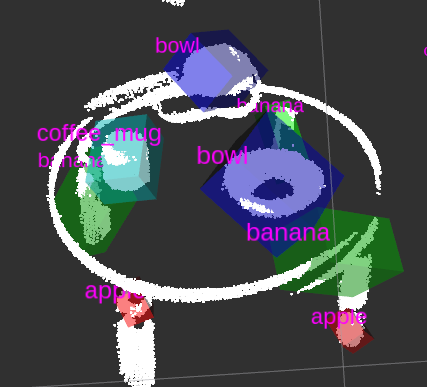
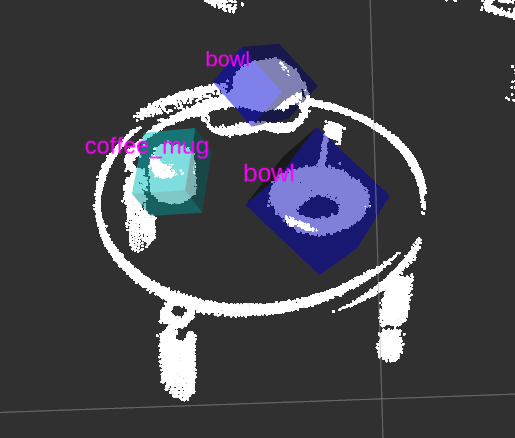
classification only for coffeemug and bowl done

diff --git a/scripts/classifierNode.py b/scripts/classifierNode.py
@@ -130,7 +130,7 @@ class NodeHandler:
                 if dim_check:
                     volume_data,quaternion = self.g.get_volumetric_data(cloud_array)
                     label,proba = cnn.predict(np.array([[volume_data]]),self.CLASS_PATH)
-                    if proba >= PRED_THRESHOLD:
+                    if (proba >= PRED_THRESHOLD) and (label in ["coffee_mug_1","bowl_1"]):
                         rospy.loginfo(" Label {} - Probability {}".format(label,proba))
                         final_clusters.append((minmaxpt[0],minmaxpt[1],label,proba,quaternion))
         drawMarkers(final_clusters)        
